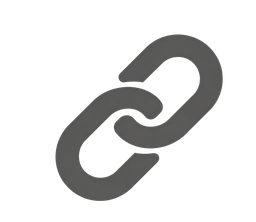
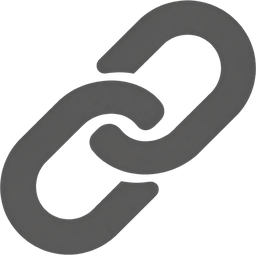
Aşama ikonlarının kayık görünen kırpması düzeltildi · v0.134.23
Görünmez alpha-tozu pikseller kırpma kutusunu yanlış hesaplatıyordu;
eşikli (gerçek görünürlük) kırpmayla yeniden işlendi.

Claude-Session: https://claude.ai/code/session_014sEMu5uayBEYQbwFLcwPtW

diff --git a/index.html b/index.html
@@ -14,7 +14,7 @@
 <meta property="og:url" content="https://nizamsoft.github.io/NIZAM-Studio/">
 <meta property="og:title" content="NIZAM | Studio">
 <meta property="og:description" content="Müşteri talebini yapılandırılmış göreve, AI promptuna ve çalışan sürüme çeviren üretim sistemi.">
-<meta property="og:image" content="https://nizamsoft.github.io/NIZAM-Studio/og.jpg?v=0.134.22">
+<meta property="og:image" content="https://nizamsoft.github.io/NIZAM-Studio/og.jpg?v=0.134.23">
 <meta property="og:image:type" content="image/jpeg">
 <meta property="og:image:width" content="1200">
 <meta property="og:image:height" content="630">
@@ -23,7 +23,7 @@
 <meta name="twitter:card" content="summary_large_image">
 <meta name="twitter:title" content="NIZAM | Studio">
 <meta name="twitter:description" content="Müşteri talebini yapılandırılmış göreve, AI promptuna ve çalışan sürüme çeviren üretim sistemi.">
-<meta name="twitter:image" content="https://nizamsoft.github.io/NIZAM-Studio/og.jpg?v=0.134.22">
+<meta name="twitter:image" content="https://nizamsoft.github.io/NIZAM-Studio/og.jpg?v=0.134.23">
 
 <link rel="canonical" href="https://nizamsoft.github.io/NIZAM-Studio/">
 <title>NIZAM | Studio — Yazılım Üretim Yönetim Sistemi</title>
@@ -39,14 +39,14 @@
 <meta name="apple-mobile-web-app-status-bar-style" content="black">
 <meta name="apple-mobile-web-app-title" content="NIZAM Studio">
 
-<link rel="stylesheet" href="style.css?v=0.134.22">
+<link rel="stylesheet" href="style.css?v=0.134.23">
 </head>
 <body>
 
 <!-- ===== Açılış ekranı ===== -->
 <div id="loader">
   <div class="loader-box">
-    <img draggable="false" class="loader-logo" src="logo.png?v=0.134.22" alt="NIZAM Studio" width="89" height="128">
+    <img draggable="false" class="loader-logo" src="logo.png?v=0.134.23" alt="NIZAM Studio" width="89" height="128">
     <div class="loader-sub">Nizam Soft</div>
     <div class="loader-track"><div class="loader-fill"></div></div>
     <div class="loader-msg">Hazırlanıyor…</div>
@@ -57,7 +57,7 @@
 <!-- ===== Giriş ekranı ===== -->
 <div id="login" class="hidden">
   <form class="login-card" id="login-form" autocomplete="on">
-    <img class="login-logo" src="logo.png?v=0.134.22" alt="" width="46" height="66">
+    <img class="login-logo" src="logo.png?v=0.134.23" alt="" width="46" height="66">
     <h1>NIZAM <span class="pipe">|</span> Studio</h1>
     <p class="login-sub">Nizam Soft</p>
 
@@ -82,7 +82,7 @@
 
   <aside id="sidebar">
     <div class="brand">
-      <img class="brand-logo" src="logo.png?v=0.134.22" alt="" width="19" height="28">
+      <img class="brand-logo" src="logo.png?v=0.134.23" alt="" width="19" height="28">
       <div class="brand-text">
         <div class="brand-name">NIZAM <span class="pipe">|</span> Studio</div>
         <div class="brand-sub">Nizam Soft</div>
@@ -128,7 +128,7 @@
       <button class="geri-ok pasif" id="btn-back" type="button" aria-label="Geri" disabled>
         <svg viewBox="0 0 24 24"><path d="M15 6l-6 6 6 6"></path></svg>
       </button>
-      <span class="logo-kutu"><img draggable="false" src="logo.png?v=0.134.22" alt="" width="17" height="24"></span>
+      <span class="logo-kutu"><img draggable="false" src="logo.png?v=0.134.23" alt="" width="17" height="24"></span>
       <div class="marka">
         <b id="firma-adi">NIZAM <span class="pipe">|</span> Studio</b>
         <i id="page-title">Panel</i>
@@ -154,7 +154,7 @@
          sekiz kartın arkasını her karede yeniden bulanıklaştırmak
          takılmanın asıl sebebiydi. -->
     <div id="zemin-sus" aria-hidden="true">
-      <img class="ofis" src="ofis.webp?v=0.134.22" alt="" width="1080" height="2334" draggable="false">
+      <img class="ofis" src="ofis.webp?v=0.134.23" alt="" width="1080" height="2334" draggable="false">
       <span class="ofis-perde"></span>
       <span class="hale-kirmizi"></span>
     </div>
@@ -183,12 +183,12 @@
 
 <div id="toast" class="hidden"></div>
 
-<script src="vendor/supabase.js?v=0.134.22"></script>
-<script src="config.js?v=0.134.22"></script>
-<script src="auth.js?v=0.134.22"></script>
-<script src="data.js?v=0.134.22"></script>
-<script src="guncelle.js?v=0.134.22"></script>
-<script src="prompt.js?v=0.134.22"></script>
-<script src="app.js?v=0.134.22"></script>
+<script src="vendor/supabase.js?v=0.134.23"></script>
+<script src="config.js?v=0.134.23"></script>
+<script src="auth.js?v=0.134.23"></script>
+<script src="data.js?v=0.134.23"></script>
+<script src="guncelle.js?v=0.134.23"></script>
+<script src="prompt.js?v=0.134.23"></script>
+<script src="app.js?v=0.134.23"></script>
 </body>
 </html>

diff --git a/sw.js b/sw.js
@@ -21,7 +21,7 @@
    Bir resim yeniden yüklenince eski kopya önbellekte kalırdı; uygulama
    `postMessage({ tip: 'unut', yol })` gönderiyor, o kayıt siliniyor. */
 
-const CACHE = 'nizam-studio-v0.134.22';
+const CACHE = 'nizam-studio-v0.134.23';
 
 /* Resimler AYRI ve SÜRÜMSÜZ bir önbellekte duruyor.
 

diff --git a/config.js b/config.js
@@ -7,7 +7,7 @@ const APP = {
   name:     'NIZAM | Studio',
   short:    'NIZAM Studio',
   owner:    'Nizam Soft',
-  version: 'v0.134.22',
+  version: 'v0.134.23',
   build:    '2026-09-06',
   /* Studio'nun kendi deposu — "bütün programlarda geçerli olsun"
      istekleri buraya gider. */

diff --git a/CHANGELOG.md b/CHANGELOG.md
@@ -1,5 +1,8 @@
 # Değişiklik Günlüğü
 
+## v0.134.23
+- **Aşama ikonları (özellikle Firma bilgileri) kutunun içinde sağa kaymış duruyordu.** Sebebi kırpma değil, PNG'lerdeki gözle görünmeyen (alpha≈1) tozlu kenar pikselleriydi — kırpma bunları da "içerik" sayıp kutuyu gereğinden geniş tutuyordu, küçültünce görünen şekil kaymış gibi duruyordu. Eşiksiz kırpma yerine eşikli (gerçekten görünen piksel) kırpmayla yeniden işlendi; artık hepsi kutuda tam ortalı.
+
 ## v0.134.22
 - **Şimdiki durak yeşil değil sarı.** Aşama listesinde "şimdi burada" olan durak bitmemiş olduğu halde yeşil (bitti rengiyle aynı) görünüyordu. Studio'nun "Geliştiriliyor" durum rengiyle (sarı) eşleşti — yeşil artık yalnız gerçekten bitmiş duraklarda.
 
